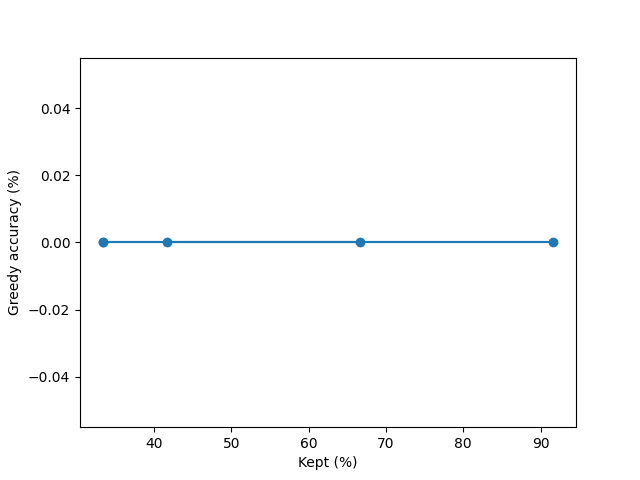
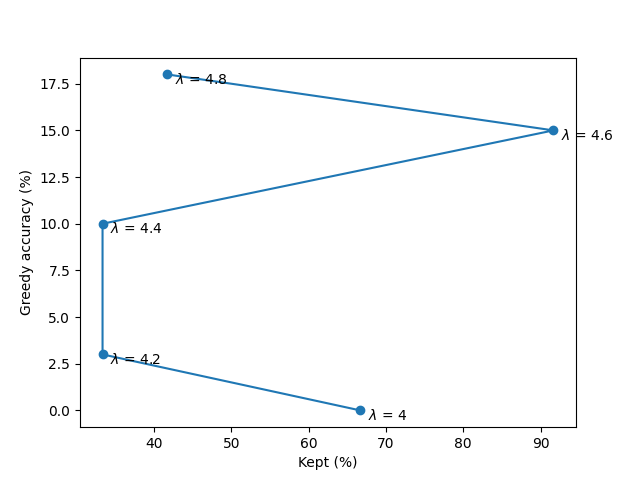
cleanup

diff --git a/Code/train.py b/Code/train.py
@@ -31,7 +31,7 @@ def train_batch(device, encoder, decoder, optimizer, batch):
     src_seqs = src_seqs.squeeze(0).to(device)
     trg_seqs = trg_seqs.squeeze(0).to(device)
 
-    batch_size, max_src_len = src_seqs.size()
+    # max_src_len = src_seqs.size()
 
     """
     Encode and decode
@@ -54,7 +54,7 @@ def train_batch(device, encoder, decoder, optimizer, batch):
     # num_key_tokens = torch.sum(key_seqs.gt(0), dim=1).float()
 
     # NOTE we count whitespace here for accurate rewards here
-    num_src_tokens = torch.sum(src_seqs.gt(0), dim=1).float()
+    num_src_tokens = torch.sum(src_seqs.gt(0), dim=0).float()
     num_key_tokens_from_encoder = float(subsentence.size(dim=0))
 
     kept_perc_per_sample = num_key_tokens_from_encoder / num_src_tokens
@@ -73,7 +73,7 @@ def train_batch(device, encoder, decoder, optimizer, batch):
     return loss_terms, results
 
 
-def train(opt, device, encoder, decoder, optimizer, loaders):
+def train(opt, device, encoder, decoder, word2id, id2word, optimizer, loaders):
     print("\n[Train] Training for {} epochs.".format(opt.epochs))
 
     (train_ae_loader, train_key_loader,
@@ -95,18 +95,24 @@ def train(opt, device, encoder, decoder, optimizer, loaders):
                 # Evaluation
                 if epoch % opt.save_every == 0:
                     utils.save_model(encoder, decoder, parameter, epoch, False)
-                    eval.evaluate(opt, device, encoder, decoder, train_ae_loader, parameter)
-                    eval.evaluate(opt, device, encoder, decoder, val_ae_loader, parameter)
-                    # eval.evaluate(opt, device, encoder, decoder, test_ae_loader, parameter)
+                    eval.evaluate(opt, device, encoder, decoder, word2id, id2word,
+                                  train_ae_loader, parameter)
+                    eval.evaluate(opt, device, encoder, decoder, word2id, id2word,
+                                  val_ae_loader, parameter)
+                    # eval.evaluate(opt, device, encoder, decoder, word2id, id2word,
+                    #               test_ae_loader, parameter)
                 else:
                     if epoch % opt.train_every == 0:
-                        eval.evaluate(opt, device, encoder, decoder, train_ae_loader, parameter)
+                        eval.evaluate(opt, device, encoder, decoder, word2id, id2word,
+                                      train_ae_loader, parameter)
 
                     if epoch % opt.val_every == 0:
-                        eval.evaluate(opt, device, encoder, decoder, val_ae_loader, parameter)
+                        eval.evaluate(opt, device, encoder, decoder, word2id, id2word,
+                                      val_ae_loader, parameter)
 
                     # if epoch % opt.test_every == 0:
-                        # eval.evaluate(opt, device, encoder, decoder, test_ae_loader, parameter)
+                        # eval.evaluate(opt, device, encoder, decoder, word2id, id2word,
+                        #               test_ae_loader, parameter)
 
 
 def main(opt, exp, device):
@@ -135,7 +141,7 @@ def main(opt, exp, device):
                            lr=learning_rate)
 
     # Train
-    train(opt, device, encoder, decoder, optimizer, loaders)
+    train(opt, device, encoder, decoder, word2id, id2word, optimizer, loaders)
 
     # Save model
     utils.save_model(encoder, decoder, parameter, epochs)

diff --git a/Code/eval.py b/Code/eval.py
@@ -36,6 +36,7 @@ def eval_batch(device, encoder, decoder, word2id, id2word, batch, parameter):
 
     encoder.eval()
     decoder.eval()
+
     with torch.no_grad():
         # Encode
         subsentence, log_prob_mask = encoder(src_seqs)
@@ -52,13 +53,13 @@ def eval_batch(device, encoder, decoder, word2id, id2word, batch, parameter):
             sentence = sentence[1:] + [word2id['<eos>']]
 
         # Calculate metrics
-        efficiency = (len(subsentence) / len(src_seqs.squeeze(0))) * 100
+        efficiency = (len(subsentence) / len(src_seqs)) * 100
         loss = - log_prob_sentence
         accuracy = (src_seqs.tolist() == sentence)
         recon_loss = len(subsentence) + parameter * - log_prob_sentence
 
-        return (list(zip(src_lines, subsentence_lines, sentence_lines,
-                         src_seqs, subsentence, sentence)),
+        return (list((src_lines, subsentence_lines, sentence_lines,
+                      src_seqs, subsentence, sentence)),
                 efficiency, loss, accuracy, recon_loss)
 
 
@@ -75,6 +76,7 @@ def evaluate(opt, device, encoder, decoder, word2id, id2word, loader, parameter)
                                                                          encoder, decoder,
                                                                          word2id, id2word,
                                                                          batch, parameter)
+
         results_all.extend(results)
         efficiency_all.append(efficiency)
         loss_all.append(loss)
@@ -195,7 +197,7 @@ if __name__ == "__main__":
 
     # parameters = [4, 4.2, 4.4, 4.6, 4.8]
     # efficiency = [15, 20, 30, 40, 45]
-    # accuracy = [0, 3, 10, 15, 18]
+    accuracy = [0, 3, 10, 15, 18]
 
     plt.figure()
     print(efficiency)
